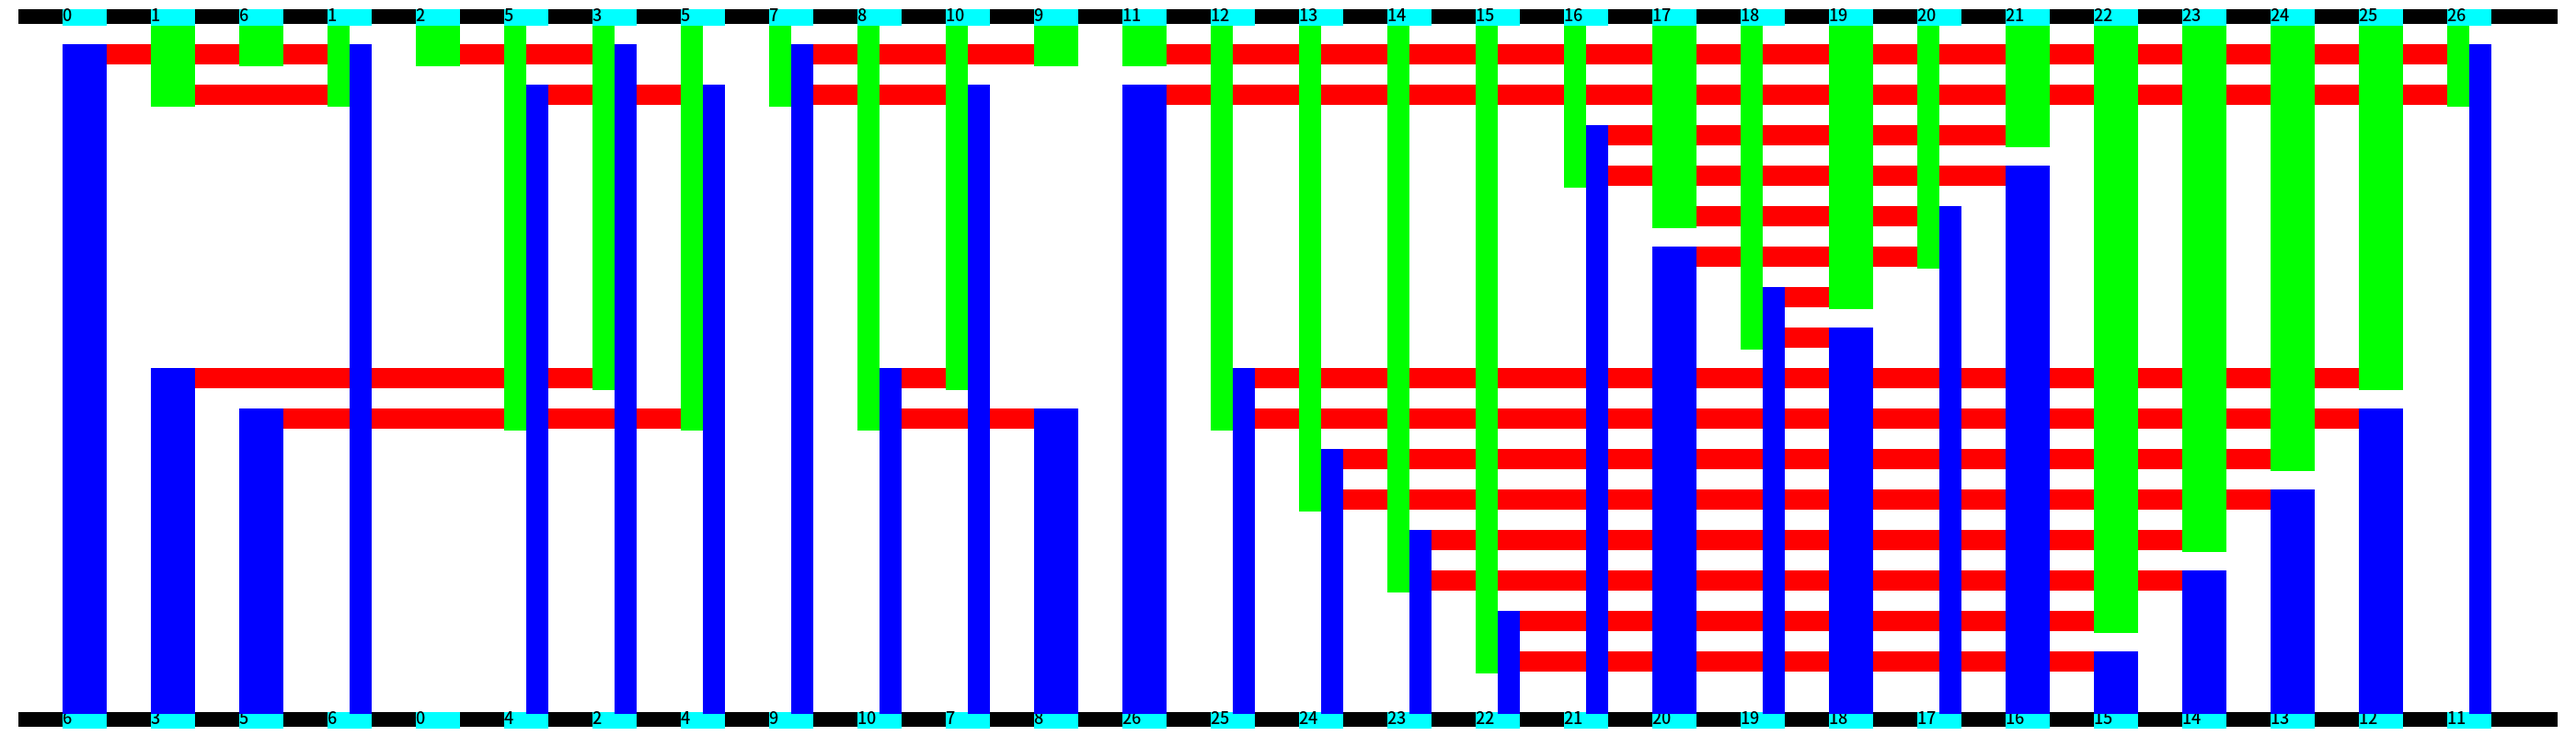
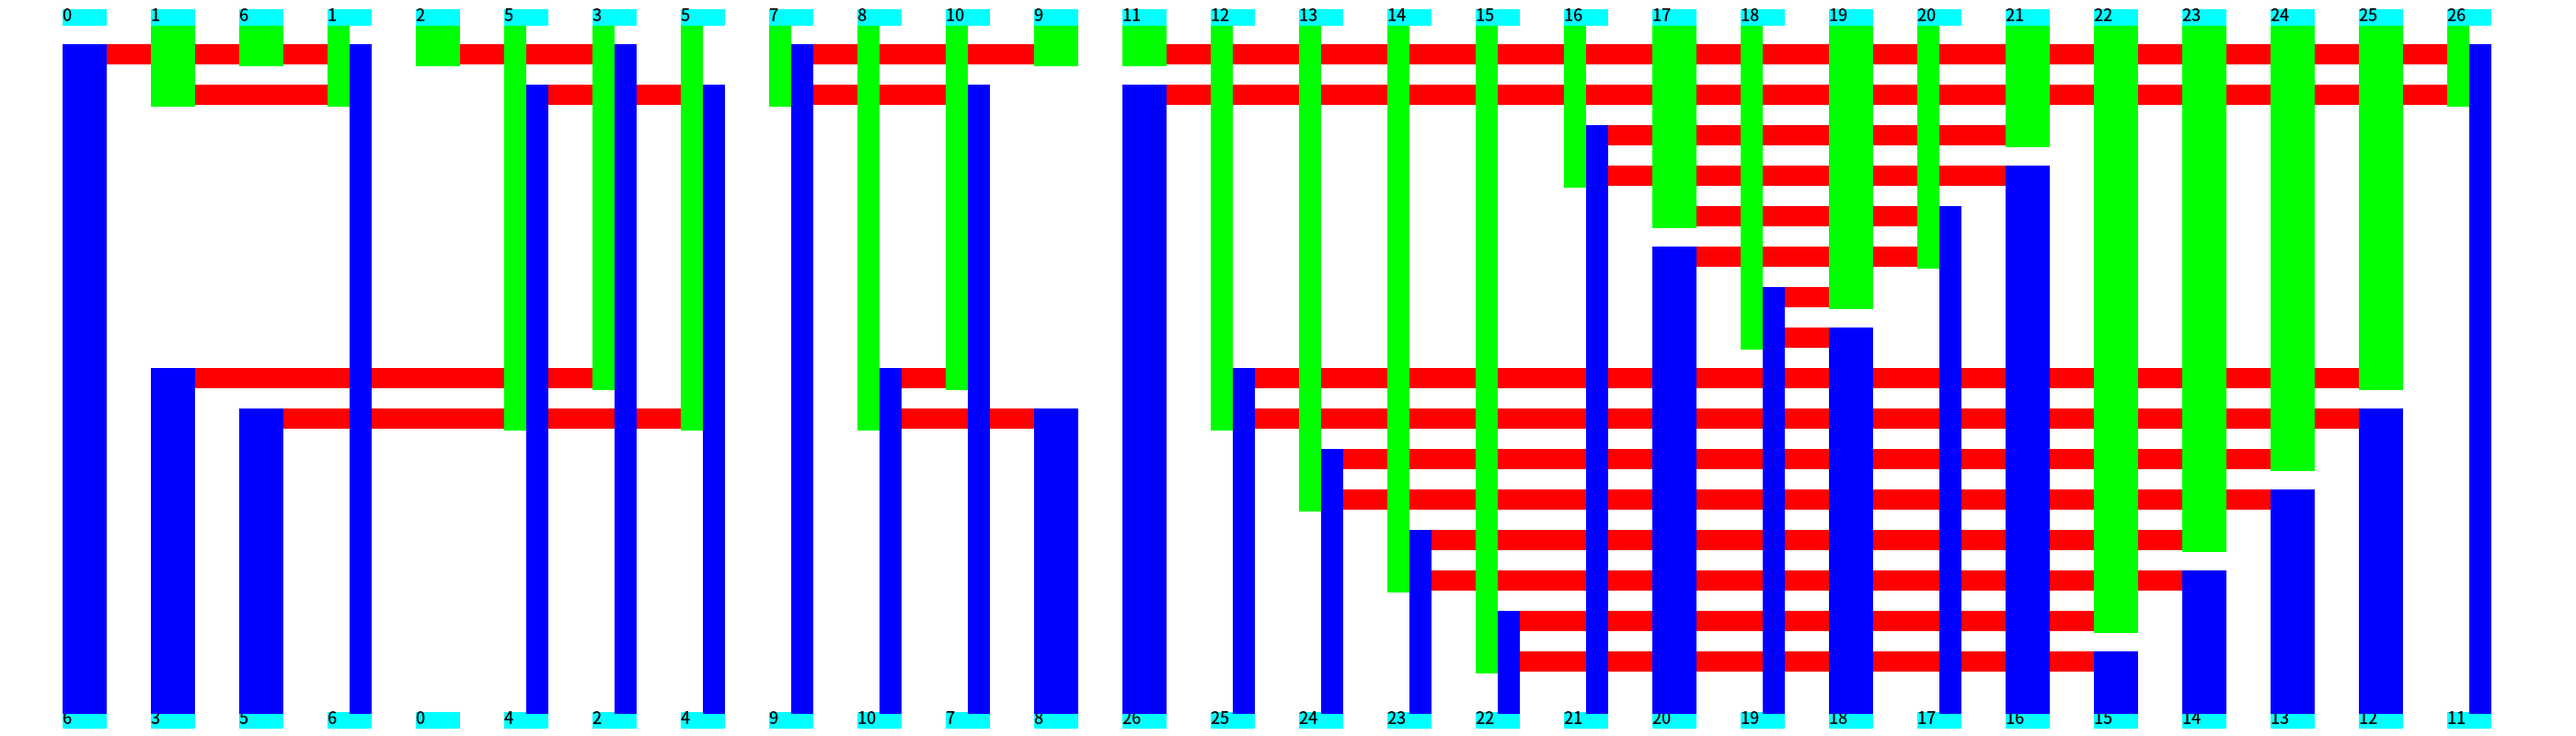
modify layer color

Changed region(s): [[0.0, 0.9688, 0.9943, 1.0], [0.0, 0.0, 0.9943, 0.0312]]

diff --git a/gui.h b/gui.h
@@ -111,13 +111,13 @@ void drawpng(std::map<std::string, Node>& biglong, std::vector<std::string>& top
     cairo_rectangle(cr,0,0,windowwidth,windowheight);
     cairo_fill(cr);
 	//畫上層layer
-	cairo_set_source_rgb(cr,0,0,0);
+	/*cairo_set_source_rgb(cr,255,124,134);
 	cairo_rectangle(cr,firstx,firsty,windowwidth-firstx*2,windowheight/hsize);
-	cairo_fill(cr);
+	cairo_fill(cr);*/
 	//畫下層layer
-	cairo_set_source_rgb(cr,0,0,0);
+/*	cairo_set_source_rgb(cr,255,124,134);
 	cairo_rectangle(cr,firstx,windowheight-firsty-windowheight/hsize,windowwidth-firstx*2,windowheight/hsize);
-	cairo_fill(cr);
+	cairo_fill(cr);*/
 	std::vector<std::pair<GdkRectangle,std::string>>topleg;//上層方塊座標位置
 	topleg.resize(top.size());
 	std::vector<std::pair<GdkRectangle,std::string>>tailleg;//下層方塊座標位置
